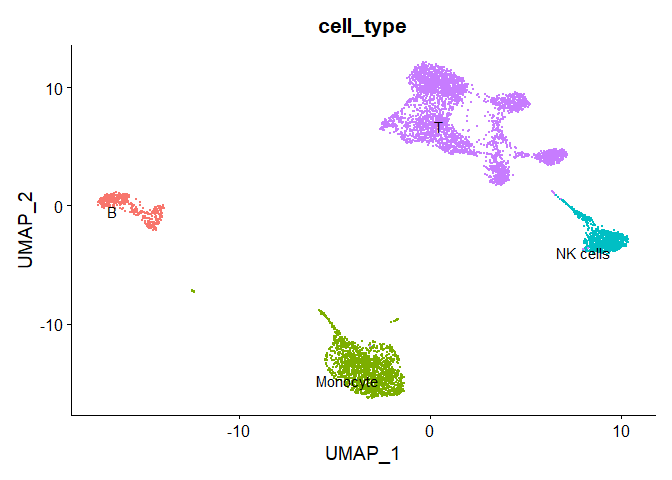
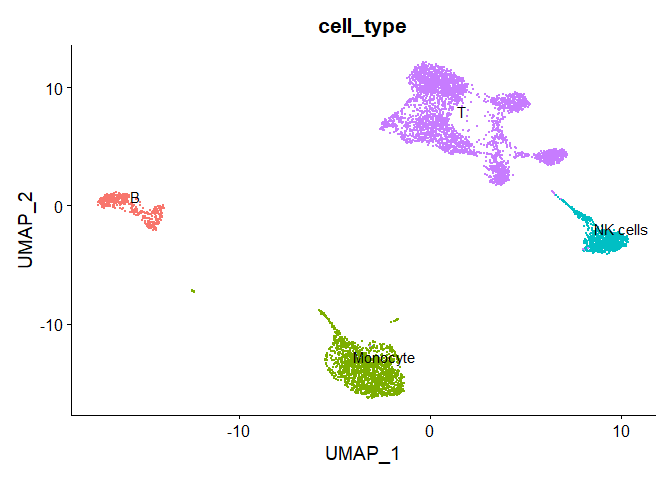
update zzz.R file

diff --git a/README.md b/README.md
@@ -5,68 +5,100 @@
 
 <!-- badges: start -->
 <!-- badges: end -->
-
 The goal of scLinear is to predict antibody derived tags (ADT) data from
-gene expression data in scRNA-seq data. It includes all the necessary pre-processing steps, comes equiped with pre-trained models and also allows the training of new models.  
-<p align="center"><img src="man/figures/schematic.v5.2.png" width="75%" height="75%" align="middle"/><p>  
-  
+gene expression data in scRNA-seq data. It includes all the necessary
+pre-processing steps, comes equiped with pre-trained models and also
+allows the training of new models.  
+<p align="center">
+<img src="man/figures/schematic.v5.2.png" width="75%" height="75%" align="middle"/>
+<p>
+
 - [Installation](#Installation)
 - [Example](#Example)
 - [Other Functions](#Other-functions)
 - [Citation](#Citation)
 - [Contact us](#Contact-us)
+
 ## Installation
 
-You can install the development version of scLinear using devtools.  
+You can install the development version of scLinear using devtools.
 
 ``` r
 # install.packages("devtools")
 devtools::install_github("DanHanh/scLinear")
+
+# Create a conda environment for the python dependencies.
+
+# install miniconda
+reticulate::install_miniconda()
+reticulate::conda_update()
+# create r-reticulate conda environment.
+reticulate::conda_create("r-reticulate")
+reticulate::conda_install(envname = "r-reticulate", packages = "conda")
+
+# Activate conda environment for reticulate.
+reticulate::use_miniconda(condaenv = "r-reticulate")
+
+# afterwards the python dependencies can be installed with:
+scLinear::install_pyton_dependencies()
+
+# If problems occure in setting up the conda environment, it can be helpfull to uninstall and reinstall reticulate!
 ```
-## Example
-After installing scLinear you may run the following example.
 
 ### Get data
-The PBMC data can be downloaded from the 10X Genomics website (https://support.10xgenomics.com/single-cell-gene-expression/datasets/3.0.0/pbmc_10k_protein_v3). Then the following code can be used to generate a Seurat object.
+
+The PBMC data can be downloaded from the 10X Genomics website
+(<https://support.10xgenomics.com/single-cell-gene-expression/datasets/3.0.0/pbmc_10k_protein_v3>).
+Then the following code can be used to generate a Seurat object.
 
 ``` r
+library(scLinear)
 set.seed(42)
 
-library(scLinear)
-
-## Example data from the Seurat PBMC10K example data set for the tutorial: https://satijalab.org/seurat/articles/multimodal_vignette.html.
-# Download link: "https://support.10xgenomics.com/single-cell-gene-expression/datasets/3.0.0/pbmc_10k_protein_v3".
 # File: "Feature / cell matrix (filtered)"
 
-pbmc10k.data <- Seurat::Read10X(data.dir = "./local/raw_feature_bc_matrix/pbmc_10k_protein_v3_filtered_feature_bc_matrix/filtered_feature_bc_matrix")
+pbmc10k.data <- Seurat::Read10X(data.dir = "./../local/pbmc_10k_protein_v3_filtered_feature_bc_matrix/filtered_feature_bc_matrix")
 rownames(x = pbmc10k.data[["Antibody Capture"]]) <- gsub(pattern = "_[control_]*TotalSeqB", replacement = "", x = rownames(x = pbmc10k.data[["Antibody Capture"]]))
 pbmc10k <- Seurat::CreateSeuratObject(counts = pbmc10k.data[["Gene Expression"]], min.cells = 1, min.features = 1)
 pbmc10k[["ADT"]] <- Seurat::CreateAssayObject(pbmc10k.data[["Antibody Capture"]][, colnames(x = pbmc10k)])
 Seurat::DefaultAssay(pbmc10k) <- "RNA"
+
+saveRDS(pbmc10k, "./../local/pbmc10k.rds")
 ```
 
 ### Running scLinear
-You may run scLinear directly providing the Seurat object as input. List of optional parameters:  
-  
-* `remove_doublets` Removal of doublets. TRUE (default) or FALSE.  
-* `low_qc_cell_removal` Removal of low quality cells. TRUE (default) or FALSE.  
-* `anno_level` Level of annotation. 1, 2, 3 or 4. See https://github.com/JiaLiVUMC/scMRMA for more details.  
-* `samples` NULL (default).  
-* `integrate_data` TRUE or FALSE (default).  
-* `remove_empty_droplets` Removal of empty droplets. TRUE or FALSE (default).  
-* `lower` = 100 (default).  
-* `FDR` = 0.01 (default).  
-* `annotation_selfCluster` TRUE or FALSE (default).  
-* `resolution` = 0.8 (default).  
-* `seed` = 42 (default).  
-* `return_plots` TRUE or FALSE (default).  
-* `model` Available models "all" (default), "bcell", "tcell" and "nkcell".  
-* `assay_name` = "RNA" (default).  
-* `print_plots` TRUE or FALSE (default).  
 
-The scLinear function uses the counts slot from the RNA assay to predict the ADT assay. The functions performs the default preprocessing steps and returns a Seurat object with the added "predicted_ADT" assay.
-  
+You may run scLinear directly providing the Seurat object as input. List
+of optional parameters:
+
+- `remove_doublets` Removal of doublets. TRUE (default) or FALSE.  
+- `low_qc_cell_removal` Removal of low quality cells. TRUE (default) or
+  FALSE.  
+- `anno_level` Level of annotation. 1, 2, 3 or 4. See
+  <https://github.com/JiaLiVUMC/scMRMA> for more details.  
+- `samples` NULL (default).  
+- `integrate_data` TRUE or FALSE (default).  
+- `remove_empty_droplets` Removal of empty droplets. TRUE or FALSE
+  (default).  
+- `lower` = 100 (default).  
+- `FDR` = 0.01 (default).  
+- `annotation_selfCluster` TRUE or FALSE (default).  
+- `resolution` = 0.8 (default).  
+- `seed` = 42 (default).  
+- `return_plots` TRUE or FALSE (default).  
+- `model` Available models “all” (default), “bcell”, “tcell” and
+  “nkcell”.  
+- `assay_name` = “RNA” (default).  
+- `print_plots` TRUE or FALSE (default).
+
+The scLinear function uses the counts slot from the RNA assay to predict
+the ADT assay. The functions performs the default preprocessing steps
+and returns a Seurat object with the added “predicted_ADT” assay
+
+## The simplest way to use scLinear is to use the scLinear() function directly
+
 ``` r
+pbmc10k <- readRDS("./../local/pbmc10k.rds")
 pbmc10k_adt_predicted <- scLinear(pbmc10k)
 #> [1] "Start remove doublets"
 #> [1] "Start low quality cell removal"
@@ -74,13 +106,13 @@ pbmc10k_adt_predicted <- scLinear(pbmc10k)
 #> [1] "Number of used dimensions for clustering: 26"
 #> Modularity Optimizer version 1.3.0 by Ludo Waltman and Nees Jan van Eck
 #> 
-#> Number of nodes: 6703
-#> Number of edges: 285702
+#> Number of nodes: 6776
+#> Number of edges: 285042
 #> 
 #> Running Louvain algorithm...
-#> Maximum modularity in 10 random starts: 0.8810
+#> Maximum modularity in 10 random starts: 0.8804
 #> Number of communities: 14
-#> Elapsed time: 0 seconds
+#> Elapsed time: 6 seconds
 #> [1] "Start cell type annotation"
 #> Pre-defined cell type database panglaodb will be used.
 #> Multi Resolution Annotation Started. 
@@ -90,12 +122,16 @@ pbmc10k_adt_predicted <- scLinear(pbmc10k)
 #> Level 4 annotation started. 
 #> Uniform Resolution Annotation Started.
 ```
+
 ## Other functions
-scLinear calls different sub-workflows which can also be called independently.
-### Prepare data
-`prepare_data()` performes all the necessay pre-processing steps. Parameters are the same as [above](##Running-scLinear") 
+
+scLinear calls different sub-workflows which can also be called
+independently.
+
+## Prepare data
 
 ``` r
+pbmc10k <- readRDS("./../local/pbmc10k.rds")
 pbmc10k <- prepare_data(pbmc10k,
         integrate_data = FALSE,
         annotation_selfCluster = TRUE, 
@@ -103,21 +139,21 @@ pbmc10k <- prepare_data(pbmc10k,
 #> [1] "Start remove doublets"
 ```
 
-<p align="center"><img src="man/figures/README-unnamed-chunk-4-1.png" width="75%" height="75%"/><p>
+<img src="man/figures/README-unnamed-chunk-4-1.png" width="100%" />
 
     #> [1] "Start low quality cell removal"
 
-<p align="center"><img src="man/figures/README-unnamed-chunk-4-2.png" width="75%" height="75%"/><img src="man/figures/README-unnamed-chunk-4-3.png" width="75%" height="75%"/><p>
+<img src="man/figures/README-unnamed-chunk-4-2.png" width="100%" /><img src="man/figures/README-unnamed-chunk-4-3.png" width="100%" />
 
     #> [1] "Start clustering data"
     #> [1] "Number of used dimensions for clustering: 26"
     #> Modularity Optimizer version 1.3.0 by Ludo Waltman and Nees Jan van Eck
     #> 
-    #> Number of nodes: 6703
-    #> Number of edges: 285702
+    #> Number of nodes: 6776
+    #> Number of edges: 285042
     #> 
     #> Running Louvain algorithm...
-    #> Maximum modularity in 10 random starts: 0.8810
+    #> Maximum modularity in 10 random starts: 0.8804
     #> Number of communities: 14
     #> Elapsed time: 0 seconds
     #> [1] "Start cell type annotation"
@@ -129,40 +165,57 @@ pbmc10k <- prepare_data(pbmc10k,
     #> Level 4 annotation started. 
     #> Uniform Resolution Annotation Started.
 
-<p align="center"><img src="man/figures/README-unnamed-chunk-4-4.png" width="75%" height="75%"/><p>
-
-### Use a pre-trained model
-User may manually load pre-trained models (available models: all, bcell, tcell, nkcell). If a pretrained model is used it is advided to use the raw data slot from the RNA assay, and normalization = TRUE, to ensure that the input data is normalized the same way as for the training data. `adt_predict()` is then used to predict the ADT values with parameters:  
-* `pipe` Pretrained model.
-* `gexp` Gene expression matrix.
-* `slot` Seurat slot to use. "counts" (default)
-* `normalize` TRUE (default) or FALSE.
-  An example can be found below:
+<img src="man/figures/README-unnamed-chunk-4-4.png" width="100%" />
 
 ``` r
+saveRDS(pbmc10k ,"./../local/pbmc10k_prepared.rds")
+```
+
+### Use a pre-trained model
+
+User may manually load pre-trained models (available models: all, bcell,
+tcell, nkcell). If a pretrained model is used it is advided to use the
+raw data slot from the RNA assay, and normalization = TRUE, to ensure
+that the input data is normalized the same way as for the training data.
+`adt_predict()` is then used to predict the ADT values with
+parameters:  
+\* `pipe` Pretrained model. \* `gexp` Gene expression matrix. \* `slot`
+Seurat slot to use. “counts” (default) \* `normalize` TRUE (default) or
+FALSE. An example can be found below:
+
+``` r
+pbmc10k <- readRDS("./../local/pbmc10k_prepared.rds")
+
 pipe <- create_adt_predictor()
 pipe <- load_pretrained_model(pipe, model = "all")
 
 pbmc10k@assays["predicted_ADT"] <-  adt_predict(pipe = pipe,
                         gexp = pbmc10k@assays[["RNA"]],
                         normalize = TRUE)
+saveRDS(pbmc10k ,"./../local/pbmc10k_predicted.rds")
 ```
 
 ## Train a new model
 
-To train a new model the following commands need to be used.   
+To train a new model the following commands need to be used.  
 `create_adt_predictor()` to initialize predictor.  
-`fit_predictor()` with parameters:
-* `pipe` predictor initialized above.  
-* `gexp_train` gene expression matrix of training set (i.e. RNA assay from Seurat object).  
-* `adt_train` ADT matrix of training set.   
-* `normalize_gex` Gene expression normalization. TRUE (default) or FALSE.
-* `normalize_adt` ADT normalization. TRUE (default) or FALSE.
-  
-Subsequently, the `evaluate_predictor` command can be used (same parameters with `fit_predictor`) to return the RMSE, Pearson and Spearman of the training process. An example of this process can be found below.  
+`fit_predictor()` with parameters: \* `pipe` predictor initialized
+above.  
+\* `gexp_train` gene expression matrix of training set (i.e. RNA assay
+from Seurat object).  
+\* `adt_train` ADT matrix of training set.  
+\* `normalize_gex` Gene expression normalization. TRUE (default) or
+FALSE. \* `normalize_adt` ADT normalization. TRUE (default) or FALSE.
+
+Subsequently, the `evaluate_predictor` command can be used (same
+parameters with `fit_predictor`) to return the RMSE, Pearson and
+Spearman of the training process. An example of this process can be
+found below.
 
 ``` r
+pbmc10k <- readRDS("./../local/pbmc10k_prepared.rds")
 ## Create a training and a test set
+set.seed(42)
 indx <- sample(1:length(colnames(pbmc10k)), size = length(colnames(pbmc10k)), replace = FALSE)
 pbmc10k_train <- pbmc10k[,indx[1:5000]]
 pbmc10k_test <- pbmc10k[,indx[5001:length(colnames(pbmc10k))]]
@@ -183,20 +236,27 @@ eval_res <- evaluate_predictor(pipe = pipe,
                   adt_test = pbmc10k_test@assays[["ADT"]],
                   normalize_gex = TRUE,
                   normalize_adt = TRUE)
+#> RMSE: 0.34708250943458663
+#> Pearson correlation: 0.9435519356984238
+#> Spearman correlation: 0.875325450829962
 
 print(eval_res)
 #>        RMSE   Pearson  Spearman
-#> 1 0.3473135 0.9436867 0.8726635
+#> 1 0.3470825 0.9435519 0.8753255
 
 ## add the predicted adt assay
 pbmc10k_test@assays["predicted_ADT"] <-  adt_predict(pipe = pipe,
                         gexp = pbmc10k_test@assays[["RNA"]],
                         normalize = TRUE)
 ```
+
 ## Citation
-Daniel Hanhart et al., "scLinear; against the deep current to predict protein abundance at single-cell resolution"
+
+Daniel Hanhart et al., “scLinear; against the deep current to predict
+protein abundance at single-cell resolution”
 
 ## Contact us
-For any request or question you may contact:
-* Daniel Hanhart daniel.hanhart@unibe.ch
-* Panagiotis Chouvardas panagiotis.chouvardas@unibe.ch
+
+For any request or question you may contact: \* Daniel Hanhart
+<daniel.hanhart@unibe.ch> \* Panagiotis Chouvardas
+<panagiotis.chouvardas@unibe.ch>
